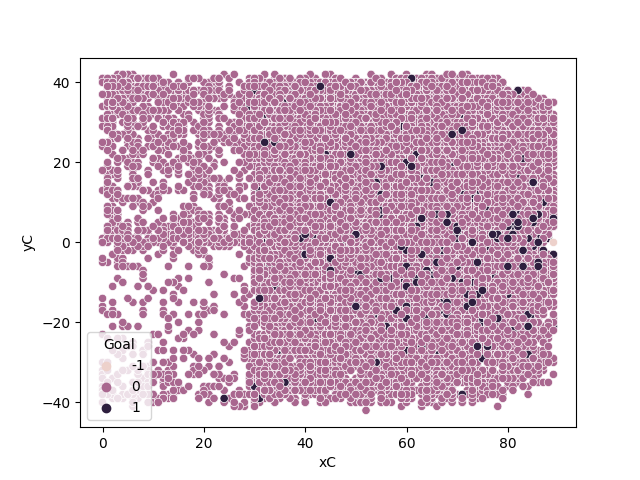
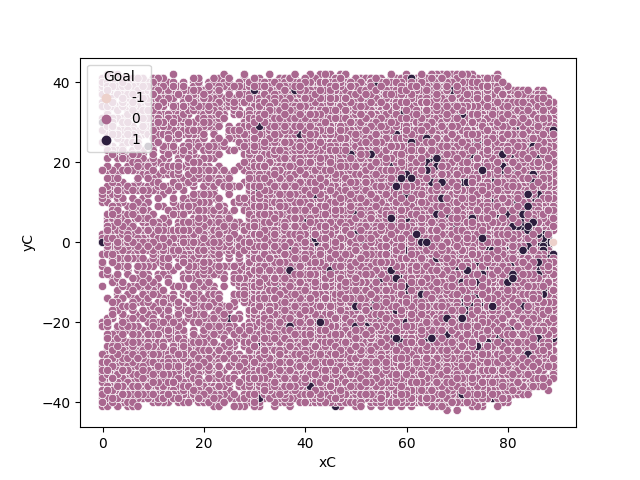
new model

Changed region(s): [[0.125, 0.125, 0.875, 0.875]]

diff --git a/other_work/xG/get_data.py b/other_work/xG/get_data.py
@@ -14,7 +14,7 @@ from joblib import dump
 
 # Scrape data
 print("Begining to scrape pbp. No shifts. Depending on what timerange was requested, this could take awhile.")
-data = hockey_scraper.scrape_seasons([2022], False, data_format = 'Pandas')
+data = hockey_scraper.scrape_seasons([2021, 2022], False, data_format = 'Pandas')
 print("Finished scraping.")
 
 # Access dataframe
@@ -62,8 +62,12 @@ df.drop(['Away_Goalie', 'Home_Goalie', 'Strength', 'Game_Id', 'Seconds_Elapsed',
 # Those dont happen very often and we already removed empty net goals, so there shouldnt be any goals from beyond the red line.
 # This will add a couple shots that take place behind the net, but they will never be goals, so it wont give them a good score.
 # Overall this could add a little extra noise, but it should not be anything too serious. 
-df.loc[((df['xC'] < 0) & (df['yC'] < 0)), 'yC'] = df['yC'] * -1
-df.loc[(df['xC'] < 0), 'xC'] = df['xC'] * -1
+df['xC'] = numpy.where(df['xC'] < 0, df['xC'] * -1, df['xC'])
+df['yC'] = numpy.where(df['xC'] < 0, df['yC'] * -1, df['yC'])
+
+#df.loc[(df['xC'] < 0), 'xC'] = df['xC'] * -1
+#df.loc[(df['xC'] < 0), 'yC'] = df['yC'] * -1
+
 
 
 df.drop(df[df['xC'] > 89].index, inplace=True)
